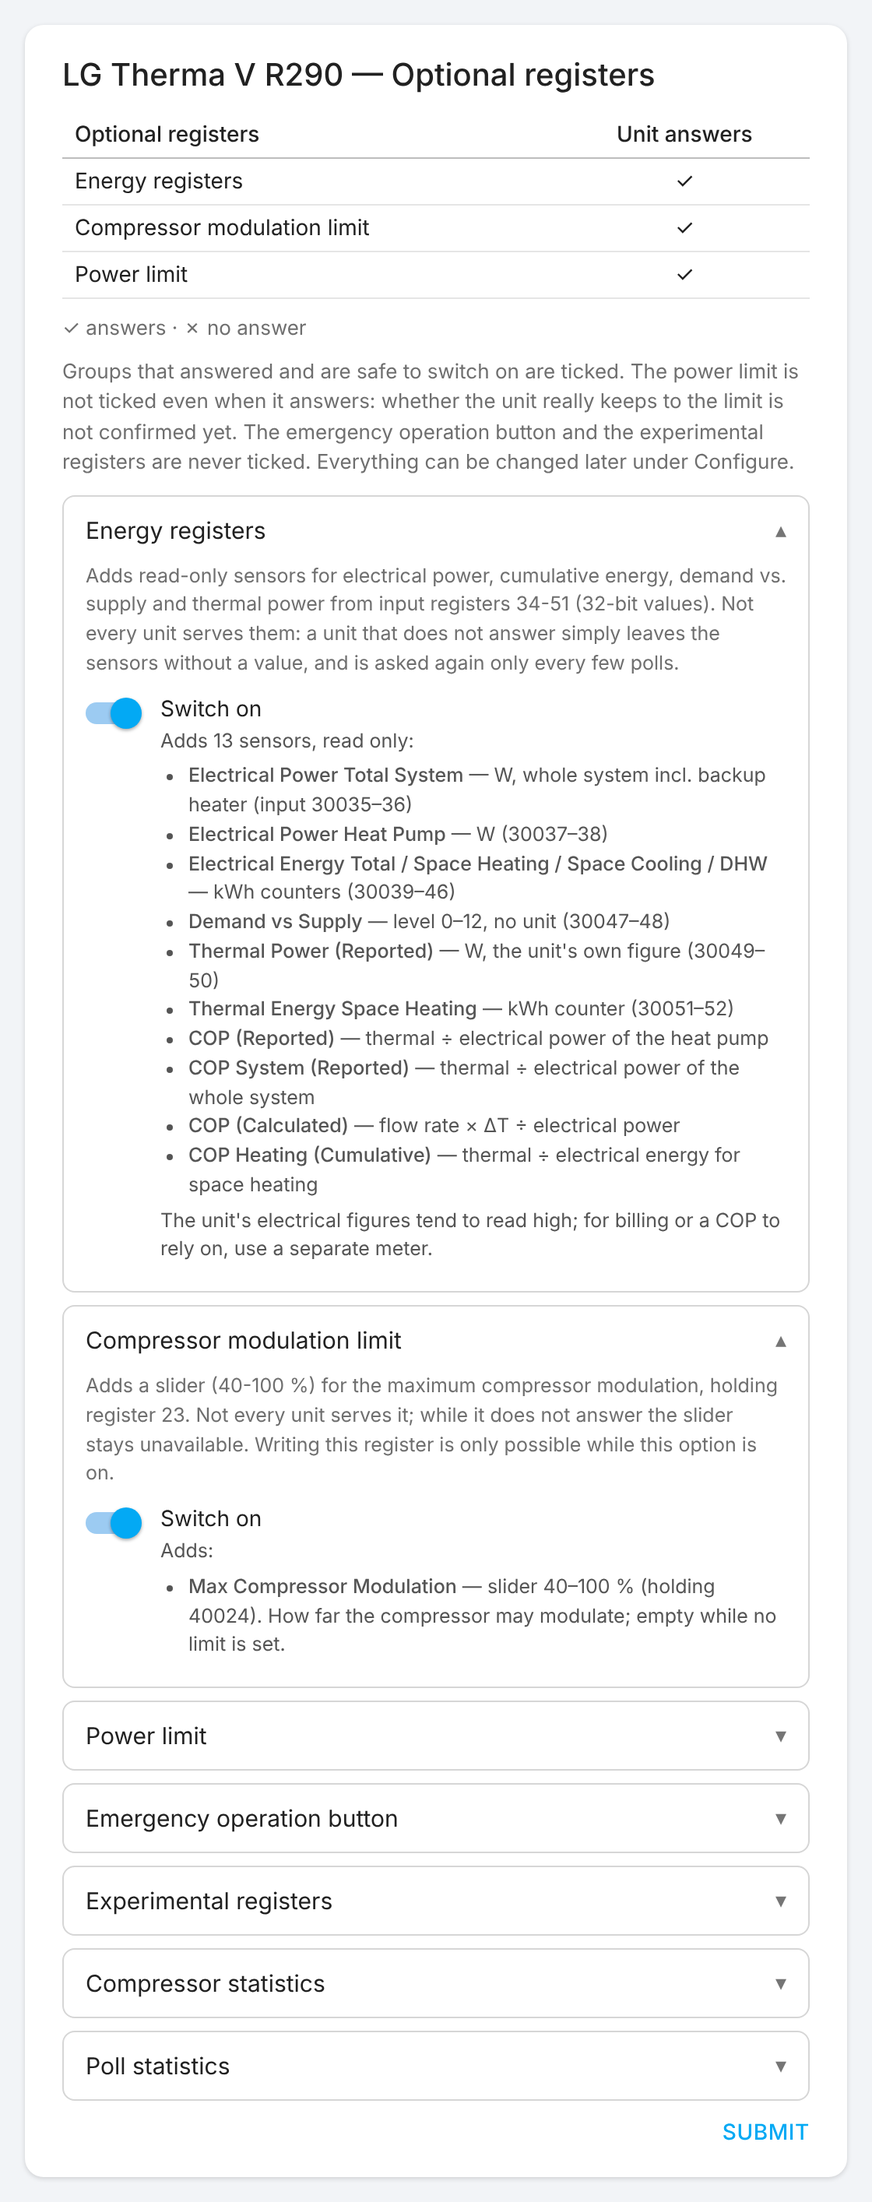
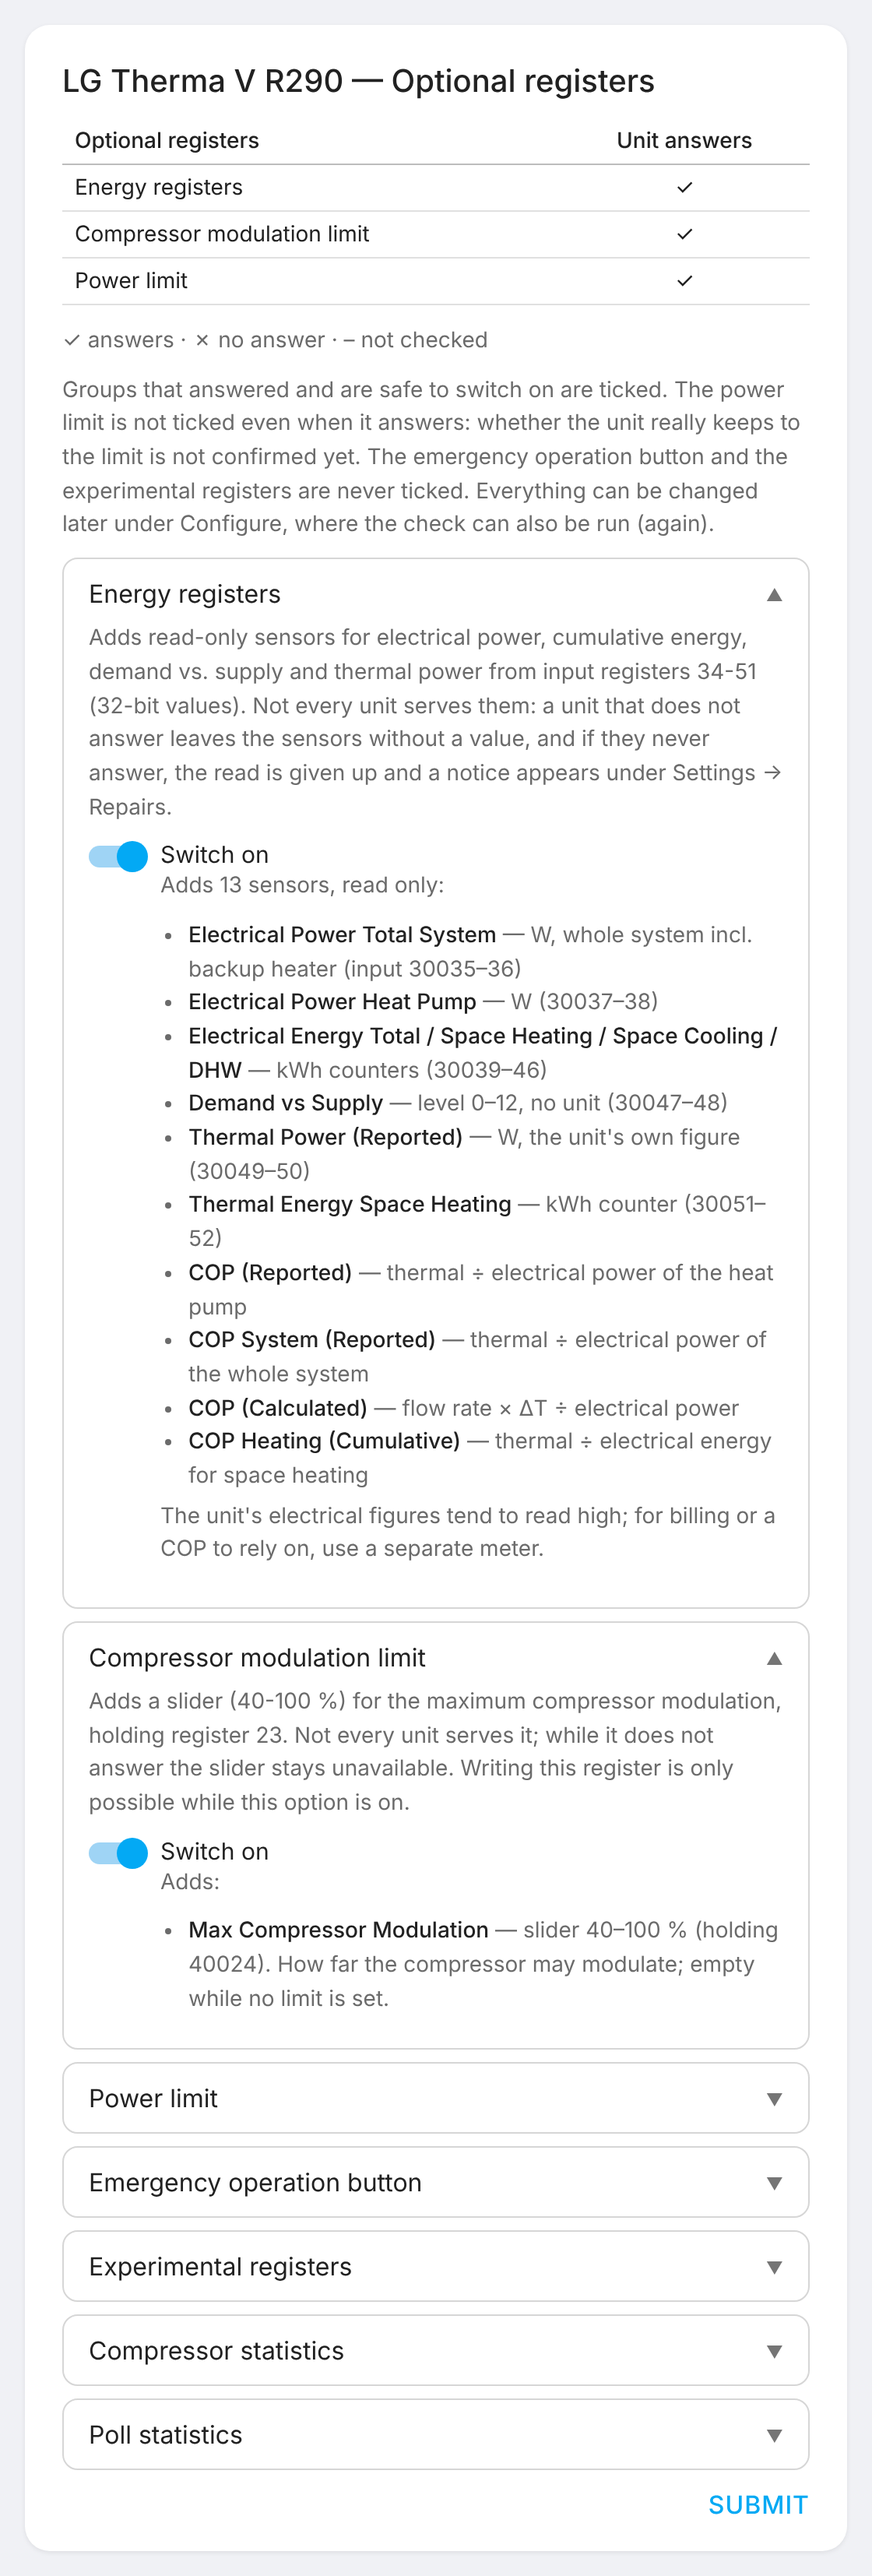
Docs: redraw the dialog illustrations, from the integration's own texts
The pictures in docs/images showed dialogs that changed in 2.0.0 to now:
setup asks before the check, the check takes up to a minute, the table
under Configure has "Last check" and "Since start". They are redrawn by
a new script, tools/render_dialogs.py, which takes every text from
strings.json and screenshots it with Playwright, so the next change of
wording is one command instead of hand-edited images.

New pictures: the setup question (setup-check.png) and the Repairs
notice for a group that never answered (repairs-never-answered.png).

Also fixes the energy registers' description, which still said the unit
"is asked again only every few polls" (until #67): if they never
answer, the read is given up with a notice under Repairs.

Claude-Session: https://claude.ai/code/session_013qnsDndt1Ld1zPCjgMFXjX

diff --git a/tools/render_dialogs.py b/tools/render_dialogs.py
@@ -1,0 +1,251 @@
+"""Draw the setup and Configure dialogs for the README (docs/images/*.png).
+
+The pictures are illustrations, not screenshots: Home Assistant's own dialogs
+look slightly different. The texts come straight from strings.json, so a
+picture never shows wording the integration no longer uses. Run again after
+changing a dialog:
+
+    pip install playwright markdown
+    python tools/render_dialogs.py
+
+Needs a Chromium for Playwright (``playwright install chromium``, or
+PLAYWRIGHT_BROWSERS_PATH pointing at one) and, for the intended look, the
+Inter font.
+"""
+
+from __future__ import annotations
+
+import html
+import json
+from pathlib import Path
+
+import markdown
+from playwright.sync_api import sync_playwright
+
+ROOT = Path(__file__).resolve().parent.parent
+STRINGS = json.loads(
+    (ROOT / "custom_components" / "lg_therma_v_r290" / "strings.json").read_text()
+)
+OUT = ROOT / "docs" / "images"
+
+# A 12 kW unit that answers on all three groups, energy registers on.
+TABLE = {
+    "energy_registers": ("✓", "✓", "✓"),
+    "compressor_modulation_limit": ("–", "✓ ➕", "–"),
+    "power_limit": ("–", "✓ ➕", "–"),
+    "emergency_operation_button": ("–", "–", "–"),
+    "experimental_registers": ("–", "–", "–"),
+    "compressor_statistics": ("–", "–", "–"),
+    "poll_statistics": ("–", "–", "–"),
+}
+CHECKED = "2026-10-19 16:40"
+
+CSS = """
+* { box-sizing: border-box; }
+.wrap { padding: 16px; background: #f0f1f5; }
+body { margin: 0; background: #f0f1f5;
+       font-family: Inter, Roboto, sans-serif; color: #212121; }
+.card { background: #fff; border-radius: 16px; padding: 24px 24px 20px;
+        box-shadow: 0 1px 3px rgba(0,0,0,.08); }
+h1 { font-size: 20px; font-weight: 500; margin: 0 0 12px; }
+h1.center { text-align: center; }
+.text { font-size: 14px; line-height: 1.55; color: #6b6b6b; }
+.text p { margin: 0 0 10px; }
+.text strong { color: #212121; font-weight: 500; }
+table { width: 100%; border-collapse: collapse; margin: 4px 0 12px;
+        color: #212121; font-size: 14px; }
+th { font-weight: 500; text-align: left; padding: 6px 8px;
+     border-bottom: 1px solid #bdbdbd; }
+td { padding: 6px 8px; border-bottom: 1px solid #e0e0e0; }
+th[style*=center], td[style*=center] { text-align: center; }
+.last { color: #212121; }
+.menu { border-top: 1px solid #e0e0e0; margin-top: 8px; }
+.item { display: flex; align-items: center; padding: 12px 0;
+        border-bottom: 1px solid #e0e0e0; }
+.item:last-child { border-bottom: none; }
+.item .label { flex: 1; font-size: 16px; }
+.item .desc { font-size: 13px; color: #6b6b6b; margin-top: 2px; line-height: 1.45; }
+.item .chev { color: #9e9e9e; font-size: 20px; padding-left: 12px; }
+.section { border: 1px solid #d6d6d6; border-radius: 10px; padding: 12px 16px;
+           margin: 8px 0; }
+.section .head { display: flex; font-size: 16px; }
+.section .head span:first-child { flex: 1; }
+.section .head span:last-child { color: #757575; font-size: 11px; padding-top: 4px; }
+.section .body { margin-top: 8px; }
+.toggle { display: flex; gap: 12px; margin: 10px 0 4px; }
+.switch { width: 34px; height: 14px; border-radius: 7px; background: #9fd4f5;
+          position: relative; margin-top: 4px; flex: none; }
+.switch::after { content: ""; position: absolute; right: -4px; top: -3px;
+                 width: 20px; height: 20px; border-radius: 50%; background: #03a9f4; }
+.toggle .t { font-size: 15px; }
+.toggle .text ul { padding-left: 18px; margin: 4px 0; }
+.field { font-size: 13px; color: #6b6b6b; margin: 12px 0 4px; }
+.input { border: 1px solid #bdbdbd; border-radius: 6px; padding: 9px 10px;
+         font-size: 15px; margin-bottom: 12px; }
+.submit { text-align: right; color: #03a9f4; font-weight: 500;
+          letter-spacing: .5px; margin-top: 12px; }
+.spinner { width: 40px; height: 40px; border-radius: 50%; margin: 6px auto 14px;
+           border: 4px solid #cfe9fb; border-top-color: #03a9f4; }
+.center { text-align: center; }
+.error { background: #fdecea; color: #b71c1c; border-radius: 6px;
+         padding: 10px 12px; font-size: 14px; margin-bottom: 12px; }
+"""
+
+
+def md(text: str, placeholders: dict[str, str] | None = None) -> str:
+    for key, value in (placeholders or {}).items():
+        text = text.replace("{" + key + "}", value)
+    return markdown.markdown(text, extensions=["tables"])
+
+
+def table_placeholders() -> dict[str, str]:
+    values = {"checked": CHECKED}
+    for group, (on, last, now) in TABLE.items():
+        values[f"{group}_on"] = on
+        values[group] = last
+        values[f"{group}_now"] = now
+    return values
+
+
+def page(body: str) -> str:
+    return (
+        f"<html><head><style>{CSS}</style></head>"
+        f'<body><div class="wrap">{body}</div></body></html>'
+    )
+
+
+def menu(items: list[tuple[str, str]]) -> str:
+    rows = "".join(
+        f'<div class="item"><div style="flex:1"><div class="label">'
+        f'{html.escape(label)}</div><div class="desc">{html.escape(desc)}</div>'
+        f'</div><div class="chev">›</div></div>'
+        for label, desc in items
+    )
+    return f'<div class="menu">{rows}</div>'
+
+
+def sections(step: dict, expanded: set[str], on: set[str]) -> str:
+    out = []
+    for key, section in step["sections"].items():
+        if key not in expanded:
+            out.append(
+                f'<div class="section"><div class="head"><span>'
+                f"{html.escape(section['name'])}</span><span>▼</span></div></div>"
+            )
+            continue
+        (field,) = section["data"]
+        toggle = (
+            f'<div class="toggle"><div class="switch"></div><div>'
+            f'<div class="t">{html.escape(section["data"][field])}</div>'
+            f'<div class="text">{md(section["data_description"][field])}</div>'
+            f"</div></div>"
+            if field in on
+            else ""
+        )
+        out.append(
+            f'<div class="section"><div class="head"><span>'
+            f"{html.escape(section['name'])}</span><span>▲</span></div>"
+            f'<div class="body"><div class="text">{md(section["description"])}'
+            f"</div>{toggle}</div></div>"
+        )
+    return "".join(out)
+
+
+def check_menu() -> str:
+    step = STRINGS["config"]["step"]["check"]
+    items = [
+        (step["menu_options"][k], step["menu_option_descriptions"][k])
+        for k in ("detect", "features")
+    ]
+    return page(
+        f'<div class="card"><h1>{step["title"]}</h1>'
+        f'<div class="text">{md(step["description"])}</div>{menu(items)}</div>'
+    )
+
+
+def progress() -> str:
+    text = STRINGS["config"]["progress"]["detect"]
+    return page(
+        '<div class="card center"><h1 class="center">LG Therma V R290</h1>'
+        f'<div class="spinner"></div><div class="text">{html.escape(text)}</div></div>'
+    )
+
+
+def features() -> str:
+    step = STRINGS["config"]["step"]["features"]
+    marks = {
+        "energy_registers": "✓",
+        "compressor_modulation_limit": "✓",
+        "power_limit": "✓",
+    }
+    on = {"energy_registers", "compressor_modulation_limit"}
+    return page(
+        f'<div class="card"><h1>{step["title"]}</h1>'
+        f'<div class="text">{md(step["description"], marks)}</div>'
+        f"{sections(step, on, on)}<div class=submit>SUBMIT</div></div>"
+    )
+
+
+def configure_menu() -> str:
+    step = STRINGS["options"]["step"]["init"]
+    items = [
+        (step["menu_options"][k], step["menu_option_descriptions"][k])
+        for k in ("options", "detect")
+    ]
+    return page(
+        f'<div class="card"><h1>{step["title"]}</h1>'
+        f'<div class="text">{md(step["description"], table_placeholders())}</div>'
+        f"{menu(items)}</div>"
+    )
+
+
+def options() -> str:
+    step = STRINGS["options"]["step"]["options"]
+    on = {"energy_registers"}
+    return page(
+        f'<div class="card"><h1>{step["title"]}</h1>'
+        f'<div class="text">{md(step["description"], table_placeholders())}</div>'
+        f'<div class="field">{step["data"]["scan_interval"]}</div>'
+        f'<div class="input">10</div>{sections(step, on, on)}'
+        f"<div class=submit>SUBMIT</div></div>"
+    )
+
+
+def repairs() -> str:
+    issue = STRINGS["issues"]["energy_registers_never_answered"]
+    confirm = issue["fix_flow"]["step"]["confirm"]
+    text = md(confirm["description"], {"entry": "LG Therma V /dev/ttyUSB0"})
+    return page(
+        f'<div class="card"><h1>{confirm["title"]}</h1>'
+        f'<div class="text">{text}</div><div class=submit>SUBMIT</div></div>'
+    )
+
+
+PICTURES = {
+    "setup-check.png": check_menu,
+    "setup-progress.png": progress,
+    "setup-features.png": features,
+    "setup-menu.png": configure_menu,
+    "setup-options.png": options,
+    "repairs-never-answered.png": repairs,
+}
+
+
+def main() -> None:
+    with sync_playwright() as p:
+        browser = p.chromium.launch()
+        context = browser.new_context(
+            viewport={"width": 560, "height": 400}, device_scale_factor=2
+        )
+        tab = context.new_page()
+        for name, build in PICTURES.items():
+            tab.set_content(build())
+            tab.wait_for_load_state()
+            # The wrapper, so the grey margin around the card is in the picture.
+            tab.locator(".wrap").screenshot(path=str(OUT / name))
+            print("wrote", name)
+        browser.close()
+
+
+if __name__ == "__main__":
+    main()

diff --git a/README.md b/README.md
@@ -179,11 +179,12 @@ After the connection test, the setup asks whether to check the unit now: which o
 Answering only proves the register exists, not that writing it has an effect. A unit that does not serve a group stays silent, so each missing group waits for a request timeout (20 seconds, see [Requirements](#requirements)): on a unit that has none of them, the check takes up to about a minute, shown as progress, and on a shared connection everything else on it waits too. That is why the setup asks first. The check runs only when asked for, never while polling. Because a register the unit lacks is silent just like any register behind a dead gateway, a ✗ only counts when the link is shown to be up: the unit has to answer a register it always serves before the check, and again after it if anything stayed silent. If it does not, nothing is recorded and the dialog says the check proved nothing.
 
 <p>
+<img src="docs/images/setup-check.png" alt="Setup: after the connection test, the question whether to check the optional registers now or skip the check" width="400"><br>
 <img src="docs/images/setup-progress.png" alt="Setup: progress while the optional registers are checked" width="400"><br>
 <img src="docs/images/setup-features.png" alt="Setup, last step: the check result and the optional register groups, energy registers and compressor modulation limit ticked" width="400">
 </p>
 
-*Illustrations of a 12 kW unit that answers on all three groups; Home Assistant's own dialogs look slightly different.*
+*Illustrations of a 12 kW unit that answers on all three groups, drawn from the integration's own texts by [tools/render_dialogs.py](tools/render_dialogs.py); Home Assistant's own dialogs look slightly different.*
 
 **Configure** opens a menu. At the top, a table shows per optional group whether it is on, what the unit answered on the last check (➕ marks a group the unit answers on but that is off, i.e. what could be switched on), and what its reads have done since the integration started (see below). Below it:
 
@@ -192,7 +193,7 @@ Answering only proves the register exists, not that writing it has an effect. A 
 
 **Reconfigure** (⋮ next to the entry) changes the connection settings without removing the integration. If the new settings point at a different unit (another address, port, serial port or slave ID), the last check belonged to the old one and is cleared; the options themselves stay as they are. A different framing on the same address (TCP ↔ TCP-RTU) keeps it. Moving the same unit to another path, e.g. from a USB adapter to a gateway, cannot be told apart from another unit and clears it too; the check is one click away.
 
-<img src="docs/images/setup-menu.png" alt="Configure: a table of the optional groups with the columns On and Unit answers (now: Last check and Since start), and the menu entries Options and Check the optional registers" width="400"><br>
+<img src="docs/images/setup-menu.png" alt="Configure: a table of the optional groups with the columns On, Last check and Since start, and the menu entries Options and Check the optional registers" width="400"><br>
 <img src="docs/images/setup-options.png" alt="Configure, Options: the same table, the poll interval and the optional groups" width="400">
 
 
@@ -202,6 +203,8 @@ The energy registers, the compressor modulation limit and the power limit are re
 
 - **Never answered:** the unit most likely does not serve it, and that only changes with a firmware update. The read is **given up** until the integration is reloaded or Home Assistant restarts, and a notice appears under **Settings → Repairs**. Its button switches the option off, which removes the option's entities. If the unit does serve the registers after all, close the notice and reload the integration, or run *Check the optional registers* under Configure.
 - **Answered before:** most likely a hiccup on the bus. The read **pauses** for 20 polls and is then tried again, so it heals by itself. No notice.
+
+<img src="docs/images/repairs-never-answered.png" alt="Settings, Repairs: the notice for energy registers that never answered, with the button that switches the option off" width="400">
 
 Four places show the state:
 

diff --git a/tools/README.md b/tools/README.md
@@ -82,3 +82,19 @@ entries with no matching entity and can be deleted there in one pass.
 
 The live integration is untouched by all of this. It kept its own domain, its
 own entities and its own pymodbus connection throughout.
+
+# Dialog illustrations
+
+`render_dialogs.py` draws the setup, Configure and Repairs dialogs shown in
+the README (`docs/images/*.png`). The texts come straight from
+`strings.json`, so after changing a dialog's wording, run it again rather
+than editing the pictures:
+
+```bash
+pip install playwright markdown
+python tools/render_dialogs.py
+```
+
+It needs a Chromium for Playwright and, for the intended look, the Inter font.
+The pictures are illustrations; Home Assistant's own dialogs look slightly
+different.
